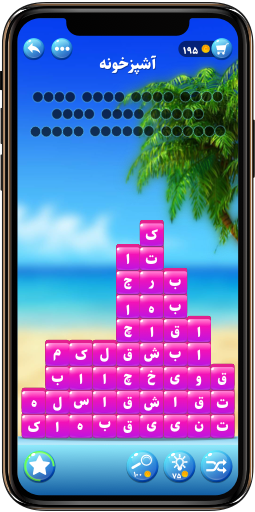
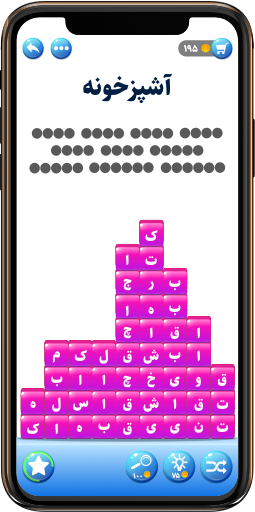
Replace words tour assets

diff --git a/src/scss/style.scss b/src/scss/style.scss
@@ -8,8 +8,8 @@
     font-weight: normal;
 }
 
-$dark: #371140;
-$light: #fb5a4f;
+$dark: #011f42;
+$light: #085fcb;
 
 @font-face {
     font-family: Sahel;
@@ -40,6 +40,7 @@ body {
     background: $light url("../img/bg.jpg") fixed;
     background-size: cover;
     background-repeat: no-repeat;
+    background-position: center center;
 
     &.welcome {
         // background: #512da8;
@@ -100,7 +101,7 @@ body {
 }
 
 .purple-bg {
-    background-color: $dark !important;
+    background-color: $light !important;
 }
 
 .purple-bg-lighten {
@@ -108,7 +109,7 @@ body {
 }
 
 .havij-bg {
-    background-color: $light !important;
+    background-color: $dark !important;
 }
 
 .justify-align {
@@ -119,6 +120,12 @@ main {
     flex: 1 0 auto;
     padding: 50px 10px 0;
     text-align: center;
+
+    p, h1, h2 {
+        &.white-text {
+            color: $dark !important;
+        }
+    }
 
     @media only screen and (min-width: 601px) {
         text-align: right;
@@ -194,10 +201,11 @@ h1, h2, h3, h4, h5, h6 {
 footer.page-footer {
     padding-top: 0 !important;
 
-    .footer-copyright{
+    .footer-copyright {
         height: 70px !important;
         line-height: 70px;
     }
+
     p {
         margin: 0;
 
